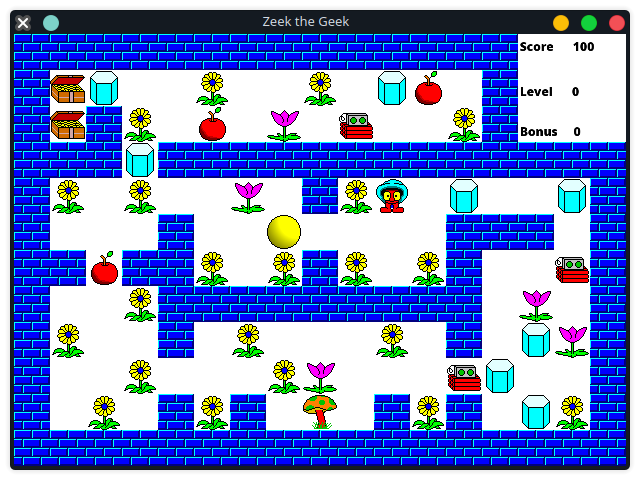
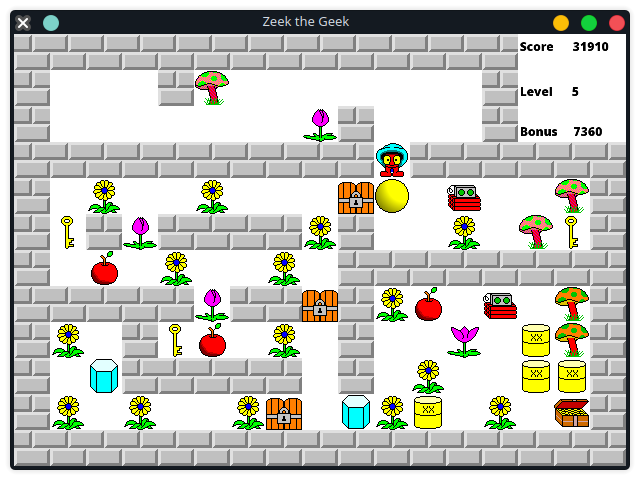
adding more levels

diff --git a/TilesID.hpp b/TilesID.hpp
@@ -1,7 +1,7 @@
 #pragma once
 #include <array>
 #include "states/PlantState.hpp"
-#include "cmp/Tags.hpp"
+#include "Tags.hpp"
 struct TilesID
 {
     static const int EMPTY = 0;
@@ -20,16 +20,21 @@ struct TilesID
     static const int WALL_8 = 108;
     static const int WALL_9 = 121;
 
-    static const int FLOWER = 83;
-    static const int MUSHROOM = 122;
-    static const int APPLE = 5;
-    static const int BALL = 18;
-    static const int CHEST = 134;
-    static const int CRYSTAL = 67;
-    static const int BOMB = 28;
-    static const int KEY = 96;
-    static const int DOOR = 44;
+    static const int FLOWER            = 83;
+    static const int MUSHROOM          = 122;
+    static const int POISONED_MUSHROOM = 135;
+    static const int APPLE             = 5;
+    static const int BALL              = 18;
+    static const int CHEST             = 134;
+    static const int CRYSTAL           = 67;
+    static const int BOMB              = 28;
+    static const int KEY               = 96;
+    static const int DOOR              = 44;
 
+    static bool isPoisonedMushroom(int id)
+    {
+        return id == POISONED_MUSHROOM;
+    }
     static bool isDoor(int id)
     {
         return id == DOOR;
@@ -89,6 +94,8 @@ struct TilesID
     }
     static int getTag(int id)
     {
+        if (isPoisonedMushroom(id))
+            return Tags::PICKABLE | Tags::REMOVABLE  | Tags::POISONED_MUSHROOM;
         if (isPlayer(id))
             return Tags::PLAYER | Tags::MOVABLE;
         if (isPlant(id))

diff --git a/Game.cpp b/Game.cpp
@@ -17,7 +17,15 @@ namespace ztg
         {
             float dt = clock.restart().asSeconds();
             events();
-            update(dt);
+            if (m_shouldDelay)
+            {
+                m_currTimeDelay += dt;
+                if (m_currTimeDelay >= 0.7f) m_shouldDelay  = false;
+            }
+            else 
+            {
+                update(dt);
+            }
             render();
         }
     }
@@ -62,8 +70,9 @@ namespace ztg
         if (gameInfo.advanceLevel)
         {
             gameInfo.currLevel += 1;
-            gameInfo.score += gameInfo.bonus;
-            gameInfo.bonus = 8000;
+            gameInfo.score     += gameInfo.bonus;
+            gameInfo.bonus      = 8000;
+            m_shouldDelay       = true;
             restart();
         }
         m_AISystem.update(m_entityManager, dt);
@@ -73,8 +82,9 @@ namespace ztg
     }
     void Game::restart()
     {
-        auto &gameInfo = m_entityManager.getSingletonComponent<GameInfoComponent>();
+        auto &gameInfo        = m_entityManager.getSingletonComponent<GameInfoComponent>();
         gameInfo.advanceLevel = false;
+        m_currTimeDelay       = 0.0f;
         m_entityManager.clear();
         m_gameManager.loadLevel(m_entityManager, gameInfo.currLevel);
         m_hud.getLevel().setValue(gameInfo.currLevel + 1);

diff --git a/GameManager.cpp b/GameManager.cpp
@@ -43,9 +43,9 @@ namespace ztg
         auto &levelComponent                  = em.getSingletonComponent<LevelComponent>();
         levelComponent.width                  = m_currentLevel.getWidth();
         levelComponent.height                 = m_currentLevel.getHeight();
-        levelComponent.playableArea           = levels[level];
-        levelComponent.mapIds.clear();
+        levelComponent.playableArea           = {0, 0, 17, 12};
         levelComponent.updatePlayerCollisions = false;
+        levelComponent.mapIds.clear();
 
         for (int y = 0; y < m_currentLevel.getHeight(); y++)
         {
@@ -60,9 +60,9 @@ namespace ztg
                 else if (TilesID::isPlayer(tileID))
                 {
                     playerFound = true;
-                    playerPos = {x, y};
+                    playerPos   = {x, y};
                     em.getSingletonComponent<LevelComponent>().playerPos = playerPos;
-                    em.getSingletonComponent<LevelComponent>().playerId = em.getSize();
+                    em.getSingletonComponent<LevelComponent>().playerId  = em.getSize();
                 }
                 em.getSingletonComponent<LevelComponent>().addId(em.getSize());
                 addEntitiy(tileID, x, y);

diff --git a/sys/CollisionSystem.cpp b/sys/CollisionSystem.cpp
@@ -19,10 +19,6 @@ namespace ztg
         }
         auto &entity = em.getEntityById(level.getId(nextPos));
         bool canMove = false;
-        if (entity.hasTag(Tags::BOMB))
-        {
-            utils::activateBomb(em, entity);
-        }
                
         if (entity.hasTag(Tags::PICKABLE))
         {
@@ -65,6 +61,13 @@ namespace ztg
         {
             gameInfo.advanceLevel = true;
         }
+        else if (entity.hasTag(Tags::POISONED_MUSHROOM))
+        {
+            auto &playerState     = em.getComponent<PlayerStateComponent>(entity);
+            playerState.currState = PlayerState::Poisoned;
+            
+            return false;
+        }
         else if (entity.hasTag(Tags::FLOWER))
         {
             gameInfo.score += 50;
@@ -88,6 +91,10 @@ namespace ztg
         if (level.getId(nextPos) != LevelComponent::EMPTY)
         {
             return false;
+        }
+        if (entity.hasTag(Tags::BOMB))
+        {
+            utils::activateBomb(em, entity);
         }
         movablePhysics.targetPos = movablePhysics.pos;
         movablePhysics.dir       = playerPhysics.dir;

diff --git a/Tags.hpp b/Tags.hpp
@@ -1,0 +1,20 @@
+#pragma once
+struct Tags
+{
+	static const int OBJECT 	       = 0b1;
+	static const int PLAYER 	       = 0b10;
+	static const int WALL 		       = 0b100;
+	static const int BOMB		       = 0b1000;
+	static const int PICKABLE 	       = 0b10000;
+	static const int PLANT		       = 0b100000;
+	static const int MOVABLE 	       = 0b1000000;
+	static const int APPLE		       = 0b10000000;
+	static const int CRYSTAL	       = 0b100000000;
+	static const int KEY 		       = 0b1000000000;
+	static const int DOOR 		       = 0b10000000000;
+	static const int REMOVABLE	       = 0b100000000000;
+	static const int MUSHROOM	       = 0b1000000000000;
+	static const int FLOWER 	   	   = 0b10000000000000;
+	static const int CHEST 		   	   = 0b100000000000000;
+	static const int POISONED_MUSHROOM = 0b1000000000000000;
+};

diff --git a/sys/AISystem.cpp b/sys/AISystem.cpp
@@ -47,7 +47,13 @@ namespace ztg
         {
             if (!level.isSafe(pos)) continue;
             auto &nearEntity = em.getEntityById(level.getId(pos));
-            if (nearEntity.hasTag(Tags::REMOVABLE))
+            if (nearEntity.hasTag(Tags::PLAYER))
+            {
+                auto &playerState     = em.getComponent<PlayerStateComponent>(nearEntity);
+                playerState.currState = PlayerState::Dead;
+                em.removeComponent<RenderComponent>(nearEntity);
+            }
+            else if (nearEntity.hasTag(Tags::REMOVABLE))
             {
                 level.markPosAsEmpty(pos);
                 em.removeAllComponents(nearEntity);

diff --git a/Utility.hpp b/Utility.hpp
@@ -54,7 +54,7 @@ namespace ztg
             auto &bombState         = em.getComponent<ExplodableStateComponent>(e);
             if (bombState.currState == ExplodableState::Actived) return;
             bombState.currState     = ExplodableState::Actived;
-            bombState.timeToExplode = 10.0f;
+            bombState.timeToExplode = 14.0f;
             em.addComponent<AnimationComponent>(ztg::animations[ztg::BOMB_ACTIVED], e);
         }
     }

diff --git a/Animations.cpp b/Animations.cpp
@@ -29,7 +29,7 @@ namespace ztg
         m_animations[PLAYER_STANDING] = AnimationComponent{frames, 0.0f};
 
         frames = {{2, 4}, {2, 5}, {2, 6}, {2, 7}, {2, 0}};
-        m_animations[PLANT_EATING_APPLE] = AnimationComponent{frames, 1.5f};
+        m_animations[PLANT_EATING_APPLE] = AnimationComponent{frames, 2.0f};
 
         frames = {{.x = 1, .y = 8, .duration = 3.0f}};
         int repeatedFrames = 3;

diff --git a/Game.hpp b/Game.hpp
@@ -20,6 +20,8 @@ namespace ztg
         void update(float dt);
         void restart();
         void render();
+        bool             m_shouldDelay = false;
+        float            m_currTimeDelay = 0.0f;
         sf::RenderWindow m_window;
         sf::Clock        m_bonusTimer;
         Hud              m_hud;

diff --git a/man/EntityManager.hpp b/man/EntityManager.hpp
@@ -1,6 +1,6 @@
 #pragma once
 #include <vector>
-#include "../cmp/Tags.hpp"
+#include "../Tags.hpp"
 #include "ComponentStorage.hpp"
 
 struct EntityManager

diff --git a/GameManager.hpp b/GameManager.hpp
@@ -3,7 +3,6 @@
 #include "Level.hpp"
 #include "TileSet.hpp"
 #include "TilesID.hpp"
-#include "Levels.hpp"
 namespace ztg
 {
     struct GameManager
